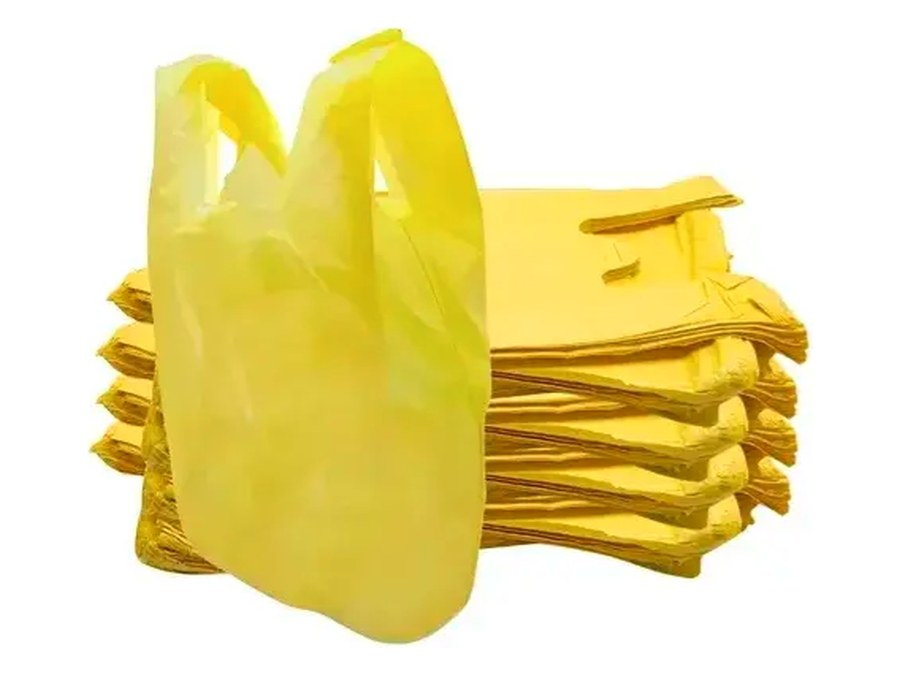
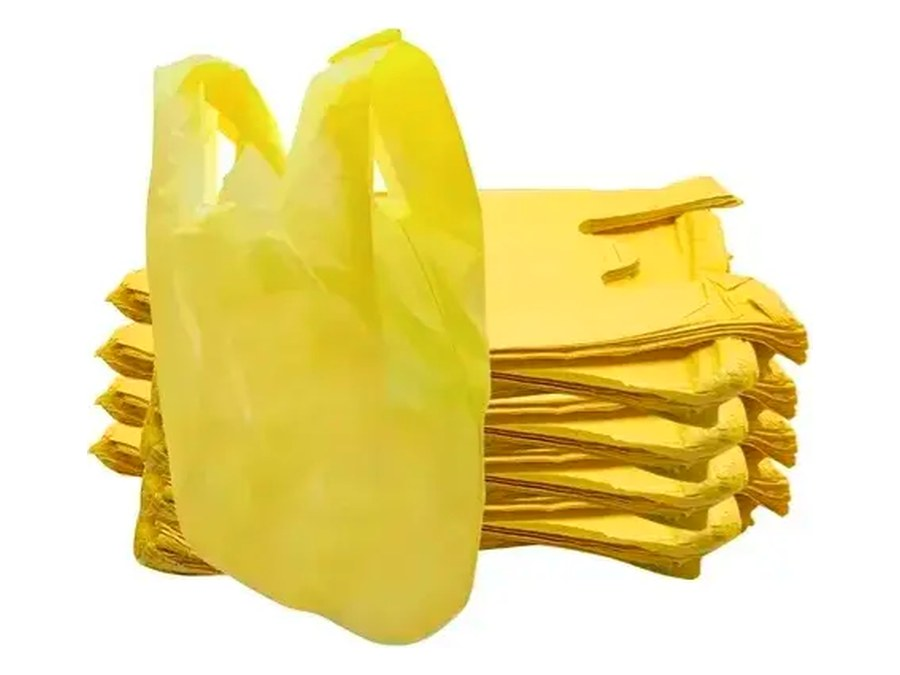
adicionando fotos novas

diff --git a/assets/js/config.js b/assets/js/config.js
@@ -135,7 +135,7 @@ const CONFIG = {
         "Feita em plástico virgem: mais resistente, mais transparente e com acabamento melhor que a sacola reciclada. Vendida por milheiro, com contagem certa.",
       medidas: ["25x35cm", "38x48cm"],
       unidade: "Pacote com 1.000 unidades",
-      imagem: "",
+      imagem: "assets/img/produtos/sacola-milheira.jpg",
     },
     {
       nome: "Copo Descartável",
@@ -144,7 +144,7 @@ const CONFIG = {
         "Copos para água, café, refrigerante e chopp. Resistência uniforme, sem trincar na hora de servir.",
       medidas: ["50ml", "80ml", "150ml", "180ml", "770ml"],
       unidade: "Caixa fechada",
-      imagem: "",
+      imagem: "assets/img/produtos/copo-descartavel.jpg",
     },
     {
       nome: "Saco de Lixo Reforçado",
@@ -153,7 +153,7 @@ const CONFIG = {
         "Espessura reforçada para uso comercial e resíduo pesado. Não rasga na hora de retirar do cesto.",
       medidas: ["20L", "40L", "60L", "100L"],
       unidade: "Pacote fechado",
-      imagem: "",
+      imagem: "assets/img/produtos/saco-lixo.jpg",
     },
     {
       nome: "Saco Acoplado (picotado)",
@@ -162,7 +162,7 @@ const CONFIG = {
         "Saco plástico em bloco picotado, destacado folha a folha. Prático no balcão de hortifruti, açougue e padaria.",
       medidas: ["400 folhas", "500 folhas"],
       unidade: "Bloco",
-      imagem: "",
+      imagem: "assets/img/produtos/saco-acoplado.jpg",
     },
     {
       nome: "Garrafas Plásticas",
@@ -171,7 +171,7 @@ const CONFIG = {
         "Garrafas para envase de água, sucos e bebidas. Consulte capacidades e disponibilidade.",
       medidas: ["Sob consulta"], // TODO: pedir medidas e forma de venda ao Douglas
       unidade: "",
-      imagem: "",
+      imagem: "assets/img/produtos/garrafas.jpg",
     },
     {
       nome: "Embalagens Plásticas em Geral",

diff --git a/LEIA-ME.md b/LEIA-ME.md
@@ -84,14 +84,22 @@ marcando exatamente onde.
 
 ## Fotos dos produtos
 
-Três produtos já têm foto: sacola branca, preta e amarela. Ficam em
-`assets/img/produtos/`. Os seis restantes mostram um ícone de caixa sobre um
-degradê cinza — funciona, mas converte bem menos que foto real.
+Oito dos nove produtos têm foto, em `assets/img/produtos/`. Só "Embalagens
+Plásticas em Geral" segue com o ícone de caixa, o que faz sentido — é o card
+genérico de "peça o que não está na lista", não um produto específico.
 
 As fotos foram padronizadas antes de entrar no site: recortadas na borda do
 produto, redimensionadas para o produto ocupar 92% do quadro e coladas numa tela
 branca de 900x675 (proporção 4:3, a mesma da moldura do card). É por isso que os
-três cards ficam idênticos mesmo os originais tendo tamanhos diferentes.
+cards ficam idênticos mesmo os originais tendo tamanhos bem diferentes, de
+491x419 a 1536x1024. As oito juntas pesam 365 KB e carregam sob demanda
+(`loading="lazy"`), então não atrasam a abertura da página.
+
+Quatro dos originais vieram com título e descrição escritos dentro da imagem.
+Esse texto foi apagado no tratamento, de propósito: ele repetiria o que o card
+já escreve logo abaixo, ficaria ilegível no tamanho real de exibição, não é lido
+pelo Google e não funciona em leitor de tela. Texto é papel do HTML; a imagem
+mostra o produto.
 
 Para adicionar uma foto nova, o caminho seguro é repetir esse padrão: fundo
 branco, produto centralizado, arquivo salvo em 900x675. Depois é só apontar o
